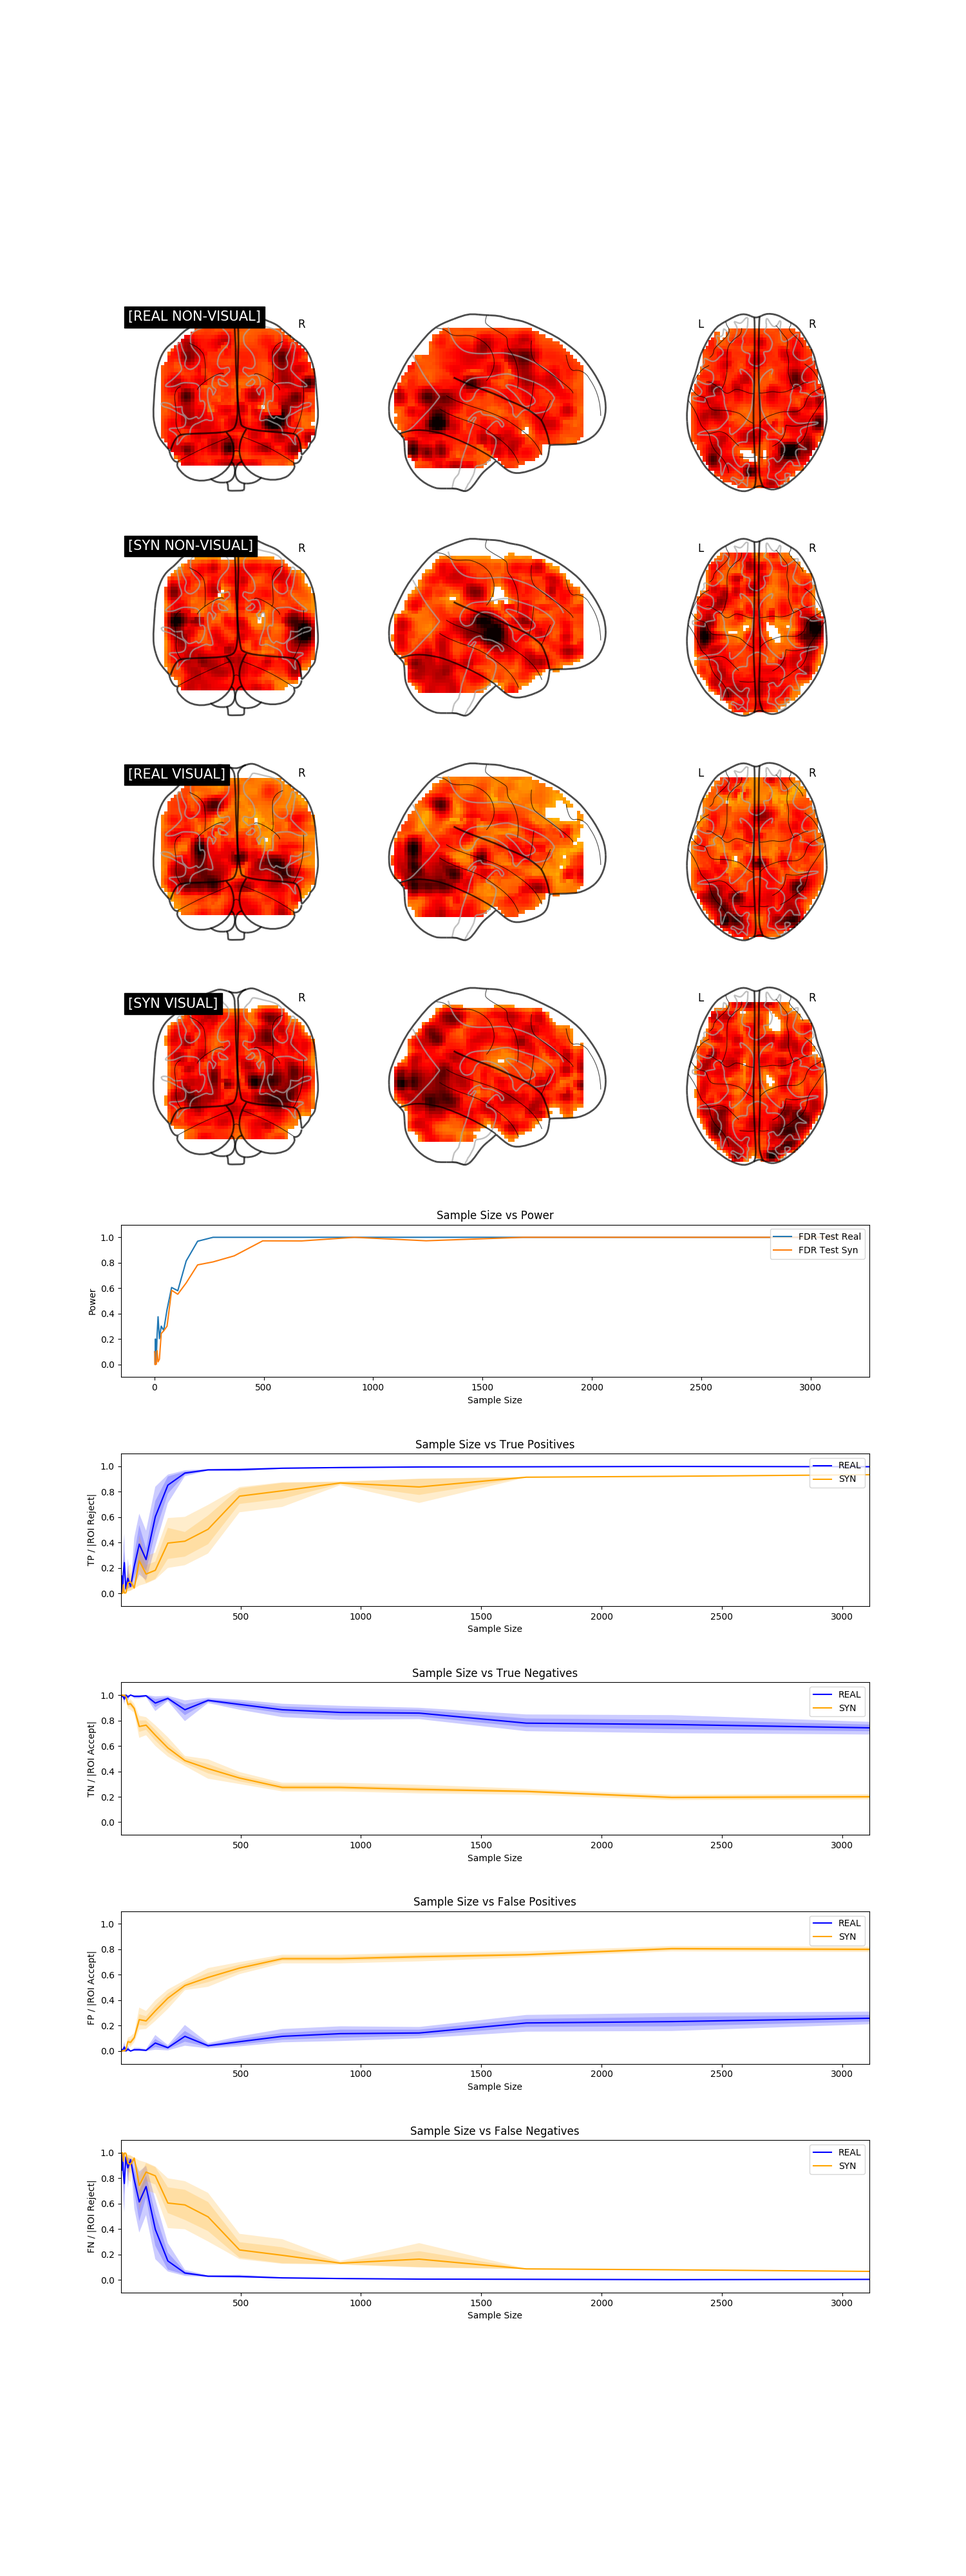
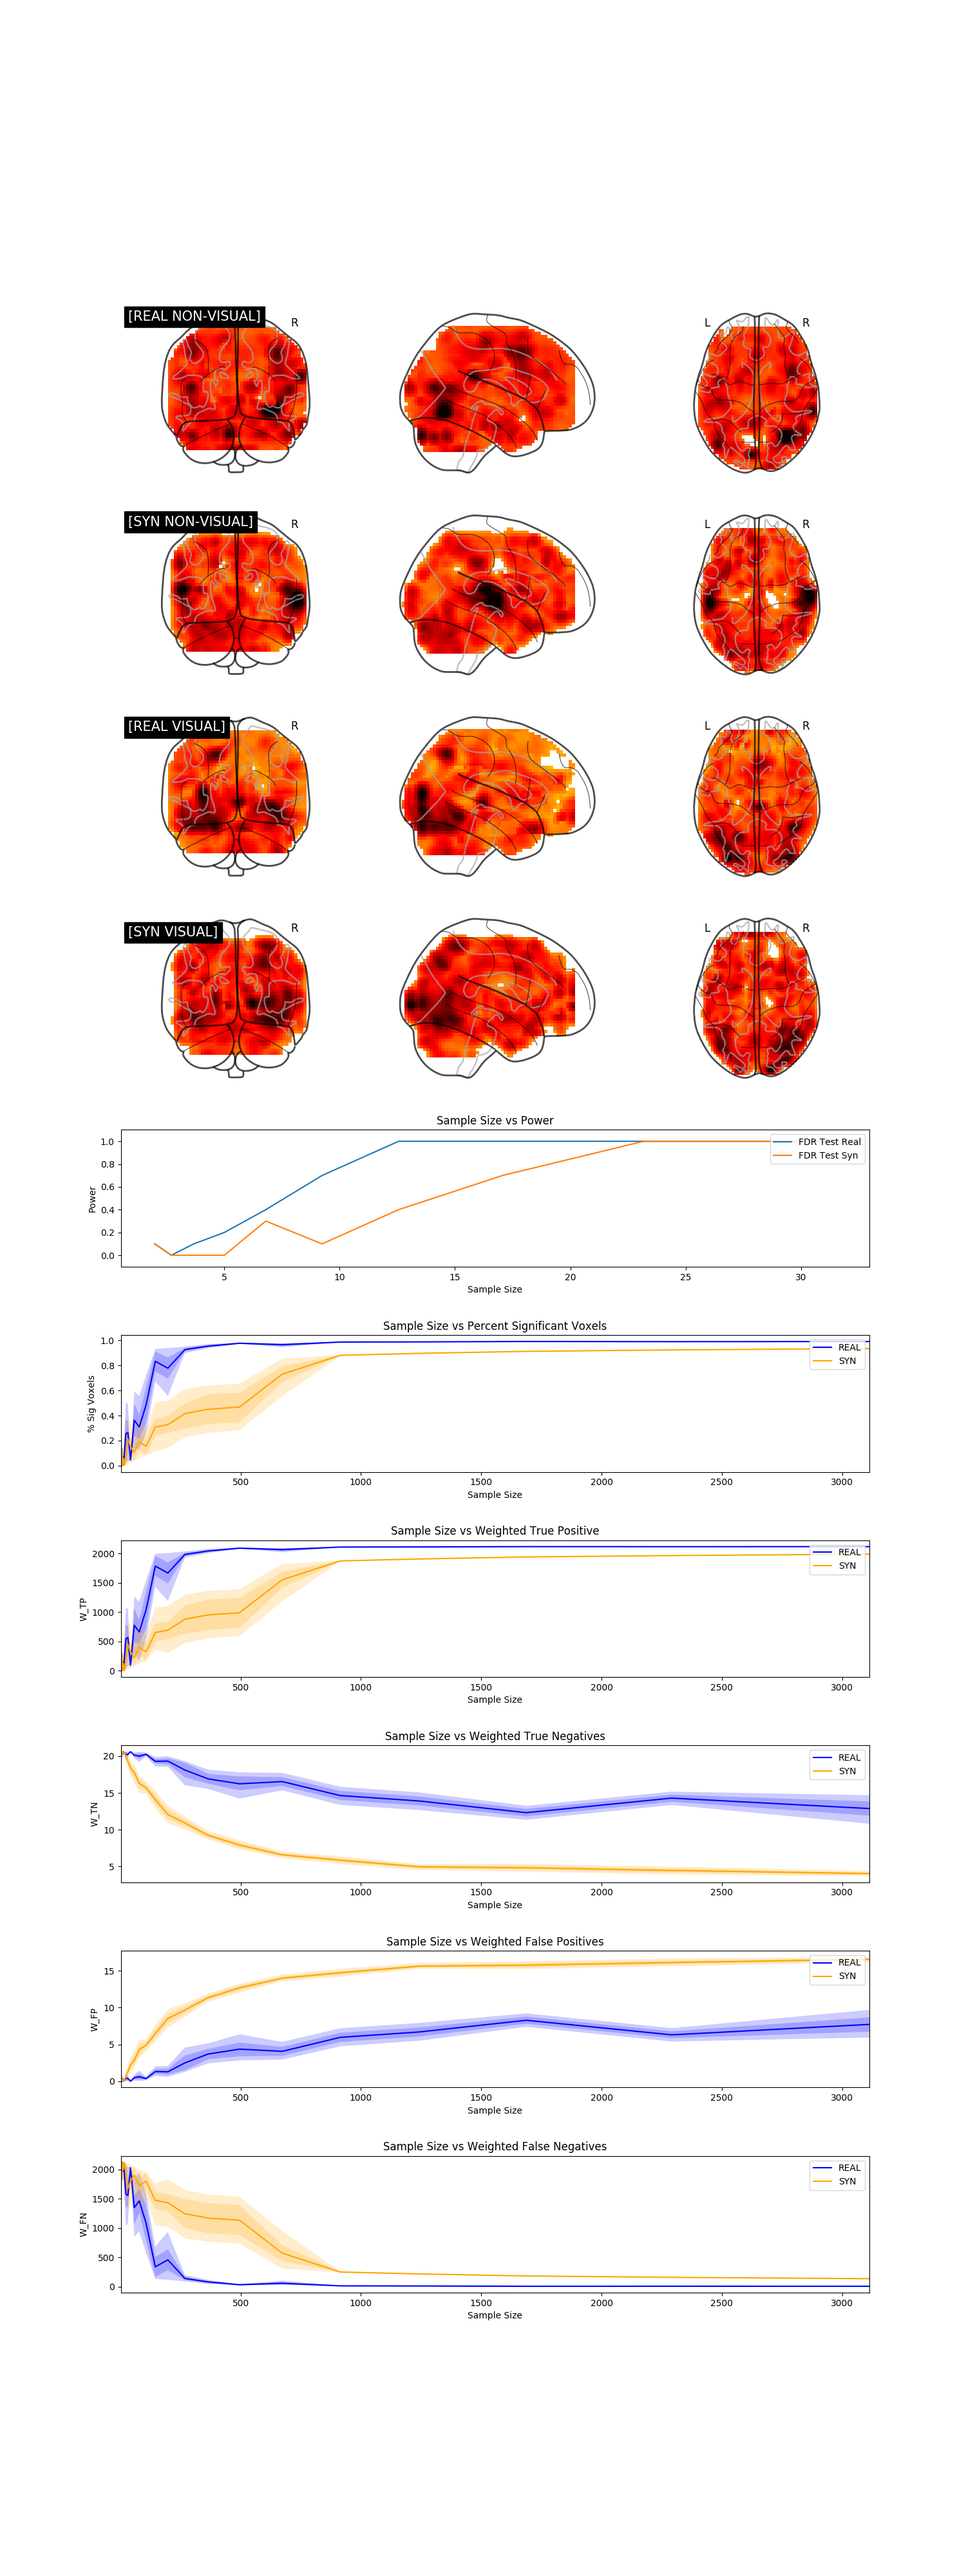
- Switched to bootstrap calculation of ground truth regions of interest. - Adjusted to weighted tp, tn, fp, fn. - Fixed bug in calculating overall brain rejection. - Added plot of percent brain voxels rejecting.

diff --git a/fmri_power_analysis_comparison.py b/fmri_power_analysis_comparison.py
@@ -7,7 +7,7 @@ import shutil
 
 from brainpedia.brainpedia import Brainpedia
 from brainpedia.fmri_processing import invert_preprocessor_scaling
-from utils.multiple_comparison import rejecting_voxels, power_calculations
+from utils.multiple_comparison import bootstrap_rejecting_voxels_mask, fmri_power_calculations
 from nilearn import plotting
 from utils.sampling import *
 
@@ -76,31 +76,34 @@ real_visual_brain_img = invert_preprocessor_scaling(real_dataset_visual[0].squee
 syn_non_visual_brain_img = invert_preprocessor_scaling(syn_dataset_non_visual[2].squeeze(), syn_dataset_brainpedia.preprocessor)
 syn_visual_brain_img = invert_preprocessor_scaling(syn_dataset_visual[0].squeeze(), syn_dataset_brainpedia.preprocessor)
 
-figure, axes = plt.subplots(nrows=9, ncols=1, figsize=(15, 40))
+figure, axes = plt.subplots(nrows=10, ncols=1, figsize=(15, 40))
 plotting.plot_glass_brain(real_non_visual_brain_img, threshold='auto', title="[REAL NON-VISUAL]", axes=axes[0])
 plotting.plot_glass_brain(syn_non_visual_brain_img, threshold='auto', title="[SYN NON-VISUAL]", axes=axes[1])
 plotting.plot_glass_brain(real_visual_brain_img, threshold='auto', title="[REAL VISUAL]", axes=axes[2])
 plotting.plot_glass_brain(syn_visual_brain_img, threshold='auto', title="[SYN VISUAL]", axes=axes[3])
 
-# Compute voxels that are statistically significant indicators of non-visual vs visual
-visual_vs_non_visual_rejecting_voxels = rejecting_voxels(real_dataset_visual.squeeze(), real_dataset_non_visual.squeeze())
+# Compute statistical significance weights of each voxel in non-visual vs visual
+k = 10
+visual_vs_non_visual_rejecting_voxels = bootstrap_rejecting_voxels_mask(real_dataset_visual.squeeze(), real_dataset_non_visual.squeeze(), k=k)
 
 # Compute power for various n
-k = 10*1
 n = np.geomspace(2, syn_dataset_length, num=25)
 
 fdr_test_power_for_n = np.zeros(len(n))
 syn_fdr_test_power_for_n = np.zeros(len(n))
 
-tp_ratios_syn_for_n = np.zeros((len(n), k))
-tn_ratios_syn_for_n = np.zeros((len(n), k))
-fp_ratios_syn_for_n = np.zeros((len(n), k))
-fn_ratios_syn_for_n = np.zeros((len(n), k))
+percent_rejecting_voxels_syn_for_n = np.zeros((len(n), k))
+percent_rejecting_voxels_real_for_n = np.zeros((len(n), k))
 
-tp_ratios_real_for_n = np.zeros((len(n), k))
-tn_ratios_real_for_n = np.zeros((len(n), k))
-fp_ratios_real_for_n = np.zeros((len(n), k))
-fn_ratios_real_for_n = np.zeros((len(n), k))
+wtp_syn_for_n = np.zeros((len(n), k))
+wtn_syn_for_n = np.zeros((len(n), k))
+wfp_syn_for_n = np.zeros((len(n), k))
+wfn_syn_for_n = np.zeros((len(n), k))
+
+wtp_real_for_n = np.zeros((len(n), k))
+wtn_real_for_n = np.zeros((len(n), k))
+wfp_real_for_n = np.zeros((len(n), k))
+wfn_real_for_n = np.zeros((len(n), k))
 
 for i in range(len(n)):
     # Determine sample sizes to draw from synthetic and real datasets
@@ -108,69 +111,76 @@ for i in range(len(n)):
     #   max available amount of data.
     syn_n = int(n[i])
     real_n = min(real_dataset_non_visual.shape[0], int(n[i]))
-    fdr_syn_power, tp_ratios_syn, tn_ratios_syn, fp_ratios_syn, fn_ratios_syn = power_calculations(syn_dataset_non_visual, syn_dataset_visual, syn_n, syn_n, visual_vs_non_visual_rejecting_voxels, k=k)
-    fdr_real_power, tp_ratios_real, tn_ratios_real, fp_ratios_real, fn_ratios_real = power_calculations(real_dataset_non_visual, real_dataset_visual, real_n, real_n, visual_vs_non_visual_rejecting_voxels, k=k)
+    fdr_syn_power, percent_rejecting_voxels_syn, wtp_syn, wtn_syn, wfp_syn, wfn_syn = fmri_power_calculations(syn_dataset_non_visual, syn_dataset_visual, syn_n, syn_n, visual_vs_non_visual_rejecting_voxels, k=k)
+    fdr_real_power, percent_rejecting_voxels_real, wtp_real, wtn_real, wfp_real, wfn_real = fmri_power_calculations(real_dataset_non_visual, real_dataset_visual, real_n, real_n, visual_vs_non_visual_rejecting_voxels, k=k)
 
     fdr_test_power_for_n[i] = fdr_real_power
     syn_fdr_test_power_for_n[i] = fdr_syn_power
 
-    tp_ratios_syn_for_n[i][:] = tp_ratios_syn[:]
-    tn_ratios_syn_for_n[i][:] = tn_ratios_syn[:]
-    fp_ratios_syn_for_n[i][:] = fp_ratios_syn[:]
-    fn_ratios_syn_for_n[i][:] = fn_ratios_syn[:]
+    percent_rejecting_voxels_syn_for_n[i][:] = percent_rejecting_voxels_syn
+    percent_rejecting_voxels_real_for_n[i][:] = percent_rejecting_voxels_real
 
-    tp_ratios_real_for_n[i][:] = tp_ratios_real[:]
-    tn_ratios_real_for_n[i][:] = tn_ratios_real[:]
-    fp_ratios_real_for_n[i][:] = fp_ratios_real[:]
-    fn_ratios_real_for_n[i][:] = fn_ratios_real[:]
+    wtp_syn_for_n[i][:] = wtp_syn[:]
+    wtn_syn_for_n[i][:] = wtn_syn[:]
+    wfp_syn_for_n[i][:] = wfp_syn[:]
+    wfn_syn_for_n[i][:] = wfn_syn[:]
 
-    print("PERCENT COMPLETE: {0:.2f}%\r".format(100 * float(i) / float(len(n))), end='')
+    wtp_real_for_n[i][:] = wtp_real[:]
+    wtn_real_for_n[i][:] = wtn_real[:]
+    wfp_real_for_n[i][:] = wfp_real[:]
+    wfn_real_for_n[i][:] = wfn_real[:]
+
+    print("PERCENT COMPLETE: {0:.2f}%\r".format(100 * float(i+1) / float(len(n))), end='')
 
 # Plot curve of n vs power
-axes[4].plot(n, fdr_test_power_for_n, label='FDR Test Real')
-axes[4].plot(n, syn_fdr_test_power_for_n, label='FDR Test Syn')
+axes[4].plot(n[:10], fdr_test_power_for_n[:10], label='FDR Test Real')
+axes[4].plot(n[:10], syn_fdr_test_power_for_n[:10], label='FDR Test Syn')
 axes[4].set_title('Sample Size vs Power')
 axes[4].set_xlabel('Sample Size')
 axes[4].set_ylabel('Power')
 axes[4].set_ylim([-0.1, 1.1])
 axes[4].legend(loc="upper right")
 
-# Plot curve of n vs rejection overlaps
-# True Positive
-sns.tsplot(data=tp_ratios_real_for_n.T, time=n, ci=[68, 95], color='blue', condition='REAL', ax=axes[5])
-sns.tsplot(data=tp_ratios_syn_for_n.T, time=n, ci=[68, 95], color='orange', condition='SYN', ax=axes[5])
-axes[5].set_title('Sample Size vs True Positives')
+# Plot curve of percent rejecting voxels
+sns.tsplot(data=percent_rejecting_voxels_real_for_n.T, time=n, ci=[68, 95], color='blue', condition='REAL', ax=axes[5])
+sns.tsplot(data=percent_rejecting_voxels_syn_for_n.T, time=n, ci=[68, 95], color='orange', condition='SYN', ax=axes[5])
+axes[5].set_title('Sample Size vs Percent Significant Voxels')
 axes[5].set_xlabel('Sample Size')
-axes[5].set_ylabel('TP / |ROI Reject|')
-axes[5].set_ylim([-0.1, 1.1])
+axes[5].set_ylabel('% Sig Voxels')
 axes[5].legend(loc="upper right")
 
-# True Negative
-sns.tsplot(data=tn_ratios_real_for_n.T, time=n, ci=[68, 95], color='blue', condition='REAL', ax=axes[6])
-sns.tsplot(data=tn_ratios_syn_for_n.T, time=n, ci=[68, 95], color='orange', condition='SYN', ax=axes[6])
-axes[6].set_title('Sample Size vs True Negatives')
+# Plot curve of n vs rejection overlaps
+# True Positive
+sns.tsplot(data=wtp_real_for_n.T, time=n, ci=[68, 95], color='blue', condition='REAL', ax=axes[6])
+sns.tsplot(data=wtp_syn_for_n.T, time=n, ci=[68, 95], color='orange', condition='SYN', ax=axes[6])
+axes[6].set_title('Sample Size vs Weighted True Positive')
 axes[6].set_xlabel('Sample Size')
-axes[6].set_ylabel('TN / |ROI Accept|')
-axes[6].set_ylim([-0.1, 1.1])
+axes[6].set_ylabel('W_TP')
 axes[6].legend(loc="upper right")
 
-# False Positive
-sns.tsplot(data=fp_ratios_real_for_n.T, time=n, ci=[68, 95], color='blue', condition='REAL', ax=axes[7])
-sns.tsplot(data=fp_ratios_syn_for_n.T, time=n, ci=[68, 95], color='orange', condition='SYN', ax=axes[7])
-axes[7].set_title('Sample Size vs False Positives')
+# True Negative
+sns.tsplot(data=wtn_real_for_n.T, time=n, ci=[68, 95], color='blue', condition='REAL', ax=axes[7])
+sns.tsplot(data=wtn_syn_for_n.T, time=n, ci=[68, 95], color='orange', condition='SYN', ax=axes[7])
+axes[7].set_title('Sample Size vs Weighted True Negatives')
 axes[7].set_xlabel('Sample Size')
-axes[7].set_ylabel('FP / |ROI Accept|')
-axes[7].set_ylim([-0.1, 1.1])
+axes[7].set_ylabel('W_TN')
 axes[7].legend(loc="upper right")
 
-# False Negative
-sns.tsplot(data=fn_ratios_real_for_n.T, time=n, ci=[68, 95], color='blue', condition='REAL', ax=axes[8])
-sns.tsplot(data=fn_ratios_syn_for_n.T, time=n, ci=[68, 95], color='orange', condition='SYN', ax=axes[8])
-axes[8].set_title('Sample Size vs False Negatives')
+# False Positive
+sns.tsplot(data=wfp_real_for_n.T, time=n, ci=[68, 95], color='blue', condition='REAL', ax=axes[8])
+sns.tsplot(data=wfp_syn_for_n.T, time=n, ci=[68, 95], color='orange', condition='SYN', ax=axes[8])
+axes[8].set_title('Sample Size vs Weighted False Positives')
 axes[8].set_xlabel('Sample Size')
-axes[8].set_ylabel('FN / |ROI Reject|')
-axes[8].set_ylim([-0.1, 1.1])
+axes[8].set_ylabel('W_FP')
 axes[8].legend(loc="upper right")
+
+# False Negative
+sns.tsplot(data=wfn_real_for_n.T, time=n, ci=[68, 95], color='blue', condition='REAL', ax=axes[9])
+sns.tsplot(data=wfn_syn_for_n.T, time=n, ci=[68, 95], color='orange', condition='SYN', ax=axes[9])
+axes[9].set_title('Sample Size vs Weighted False Negatives')
+axes[9].set_xlabel('Sample Size')
+axes[9].set_ylabel('W_FN')
+axes[9].legend(loc="upper right")
 
 # Save results
 figure.subplots_adjust(hspace=0.5)

diff --git a/utils/multiple_comparison.py b/utils/multiple_comparison.py
@@ -14,35 +14,46 @@ def rejecting_voxels(d1, d2, alpha=0.05):
 
     return fdr_correction(two_sample_t_test_p_vals_by_voxel, alpha=alpha)[0]
 
+def bootstrap_rejecting_voxels_mask(d1, d2, k=10**1, alpha=0.05):
+    fdr_reject_by_voxel_boot = []
+
+    for br in range(k):
+        d1_idx = np.random.randint(low=0, high=d1.shape[0], size=d1.shape[0])
+        d2_idx = np.random.randint(low=0, high=d2.shape[0], size=d2.shape[0])
+
+        d1_replicate = d1[d1_idx].squeeze()
+        d2_replicate = d2[d2_idx].squeeze()
+
+        fdr_reject_by_voxel = rejecting_voxels(d1_replicate, d2_replicate, alpha)
+        fdr_reject_by_voxel_boot.append(fdr_reject_by_voxel)
+
+    return np.mean(fdr_reject_by_voxel_boot, axis=0)
+
+
 def rejection_mask_overlap(rejections, mask_rejections):
     tp = 0
     tn = 0
     fp = 0
     fn = 0
-    total_roi_reject = 0
-    total_roi_accept = 0
 
     for i in range(rejections.shape[0]):
         for j in range(rejections.shape[1]):
             for k in range(rejections.shape[2]):
-                rejection = rejections[i][j][k]
-                mask_reject = mask_rejections[i][j][k]
+                reject = rejections[i][j][k]
+                accept = not reject
+                mask_reject_weight = mask_rejections[i][j][k]
+                mask_accept_weight = 1.0 - mask_reject_weight
 
-                tp += (rejection and mask_reject)
-                tn += (not rejection and not mask_reject)
-                fp += (rejection and not mask_reject)
-                fn += (not rejection and mask_reject)
-                total_roi_reject += mask_reject
-                total_roi_accept += (not mask_reject)
+                tp += (mask_reject_weight * reject)
+                tn += (mask_accept_weight * accept)
+                fp += (mask_accept_weight * reject)
+                fn += (mask_reject_weight * accept)
 
-    tp = float(tp) / float(max(total_roi_reject, 1))
-    tn = float(tn) / float(max(total_roi_accept, 1))
-    fp = float(fp) / float(max(total_roi_accept, 1))
-    fn = float(fn) / float(max(total_roi_reject, 1))
     return tp, tn, fp, fn
 
 def fmri_power_calculations(d1, d2, n_1, n_2, overlap_mask, alpha=0.05, k=10**1):
     fdr_rejections = []
+    percent_rejecting_voxels = []
     tp_ratios = []
     tn_ratios = []
     fp_ratios = []
@@ -56,8 +67,12 @@ def fmri_power_calculations(d1, d2, n_1, n_2, overlap_mask, alpha=0.05, k=10**1)
         d2_replicate = d2[d2_idx].squeeze()
 
         fdr_reject_by_voxel = rejecting_voxels(d1_replicate, d2_replicate, alpha)
-        fdr_reject = sum(fdr_reject_by_voxel) > 0  # reject if any voxel rejects
+        flattened_fdr_reject_by_voxel = fdr_reject_by_voxel.flatten()
+        fdr_reject = np.sum(flattened_fdr_reject_by_voxel) > 0  # reject if any voxel rejects
+        percent_reject = np.count_nonzero(flattened_fdr_reject_by_voxel) / flattened_fdr_reject_by_voxel.shape[0]
+
         fdr_rejections.append(fdr_reject)
+        percent_rejecting_voxels.append(percent_reject)
 
         tp, tn, fp, fn = rejection_mask_overlap(fdr_reject_by_voxel, overlap_mask)
         tp_ratios.append(tp)
@@ -66,7 +81,7 @@ def fmri_power_calculations(d1, d2, n_1, n_2, overlap_mask, alpha=0.05, k=10**1)
         fn_ratios.append(fn)
 
     fdr_power = np.mean(fdr_rejections)
-    return fdr_power, tp_ratios, tn_ratios, fp_ratios, fn_ratios
+    return fdr_power, percent_rejecting_voxels, tp_ratios, tn_ratios, fp_ratios, fn_ratios
 
 def multivariate_power_calculation(d1, d2, n_1, n_2, alpha=0.05, k=10**1):
     fdr_rejections = []
@@ -78,6 +93,7 @@ def multivariate_power_calculation(d1, d2, n_1, n_2, alpha=0.05, k=10**1):
         d1_replicate = d1[d1_idx].squeeze()
         d2_replicate = d2[d2_idx].squeeze()
 
+        # FDR corrected univariate tests
         two_sample_t_test_p_vals_by_dim = np.zeros(d1.shape[1:])
         for i in range(two_sample_t_test_p_vals_by_dim.shape[0]):
             d1_vals = d1[:, i]
@@ -89,7 +105,8 @@ def multivariate_power_calculation(d1, d2, n_1, n_2, alpha=0.05, k=10**1):
         fdr_rejections.append(fdr_reject)
 
     fdr_power = np.mean(fdr_rejections)
-    return fdr_power
+    # hotellings_power = 0.2#np.mean(hotellings_rejections)
+    return fdr_power#, hotellings_power
 
 # Authors: Josef Pktd and example from H Raja and rewrite from Vincent Davis
 #          Alexandre Gramfort <alexandre.gramfort@telecom-paristech.fr>
